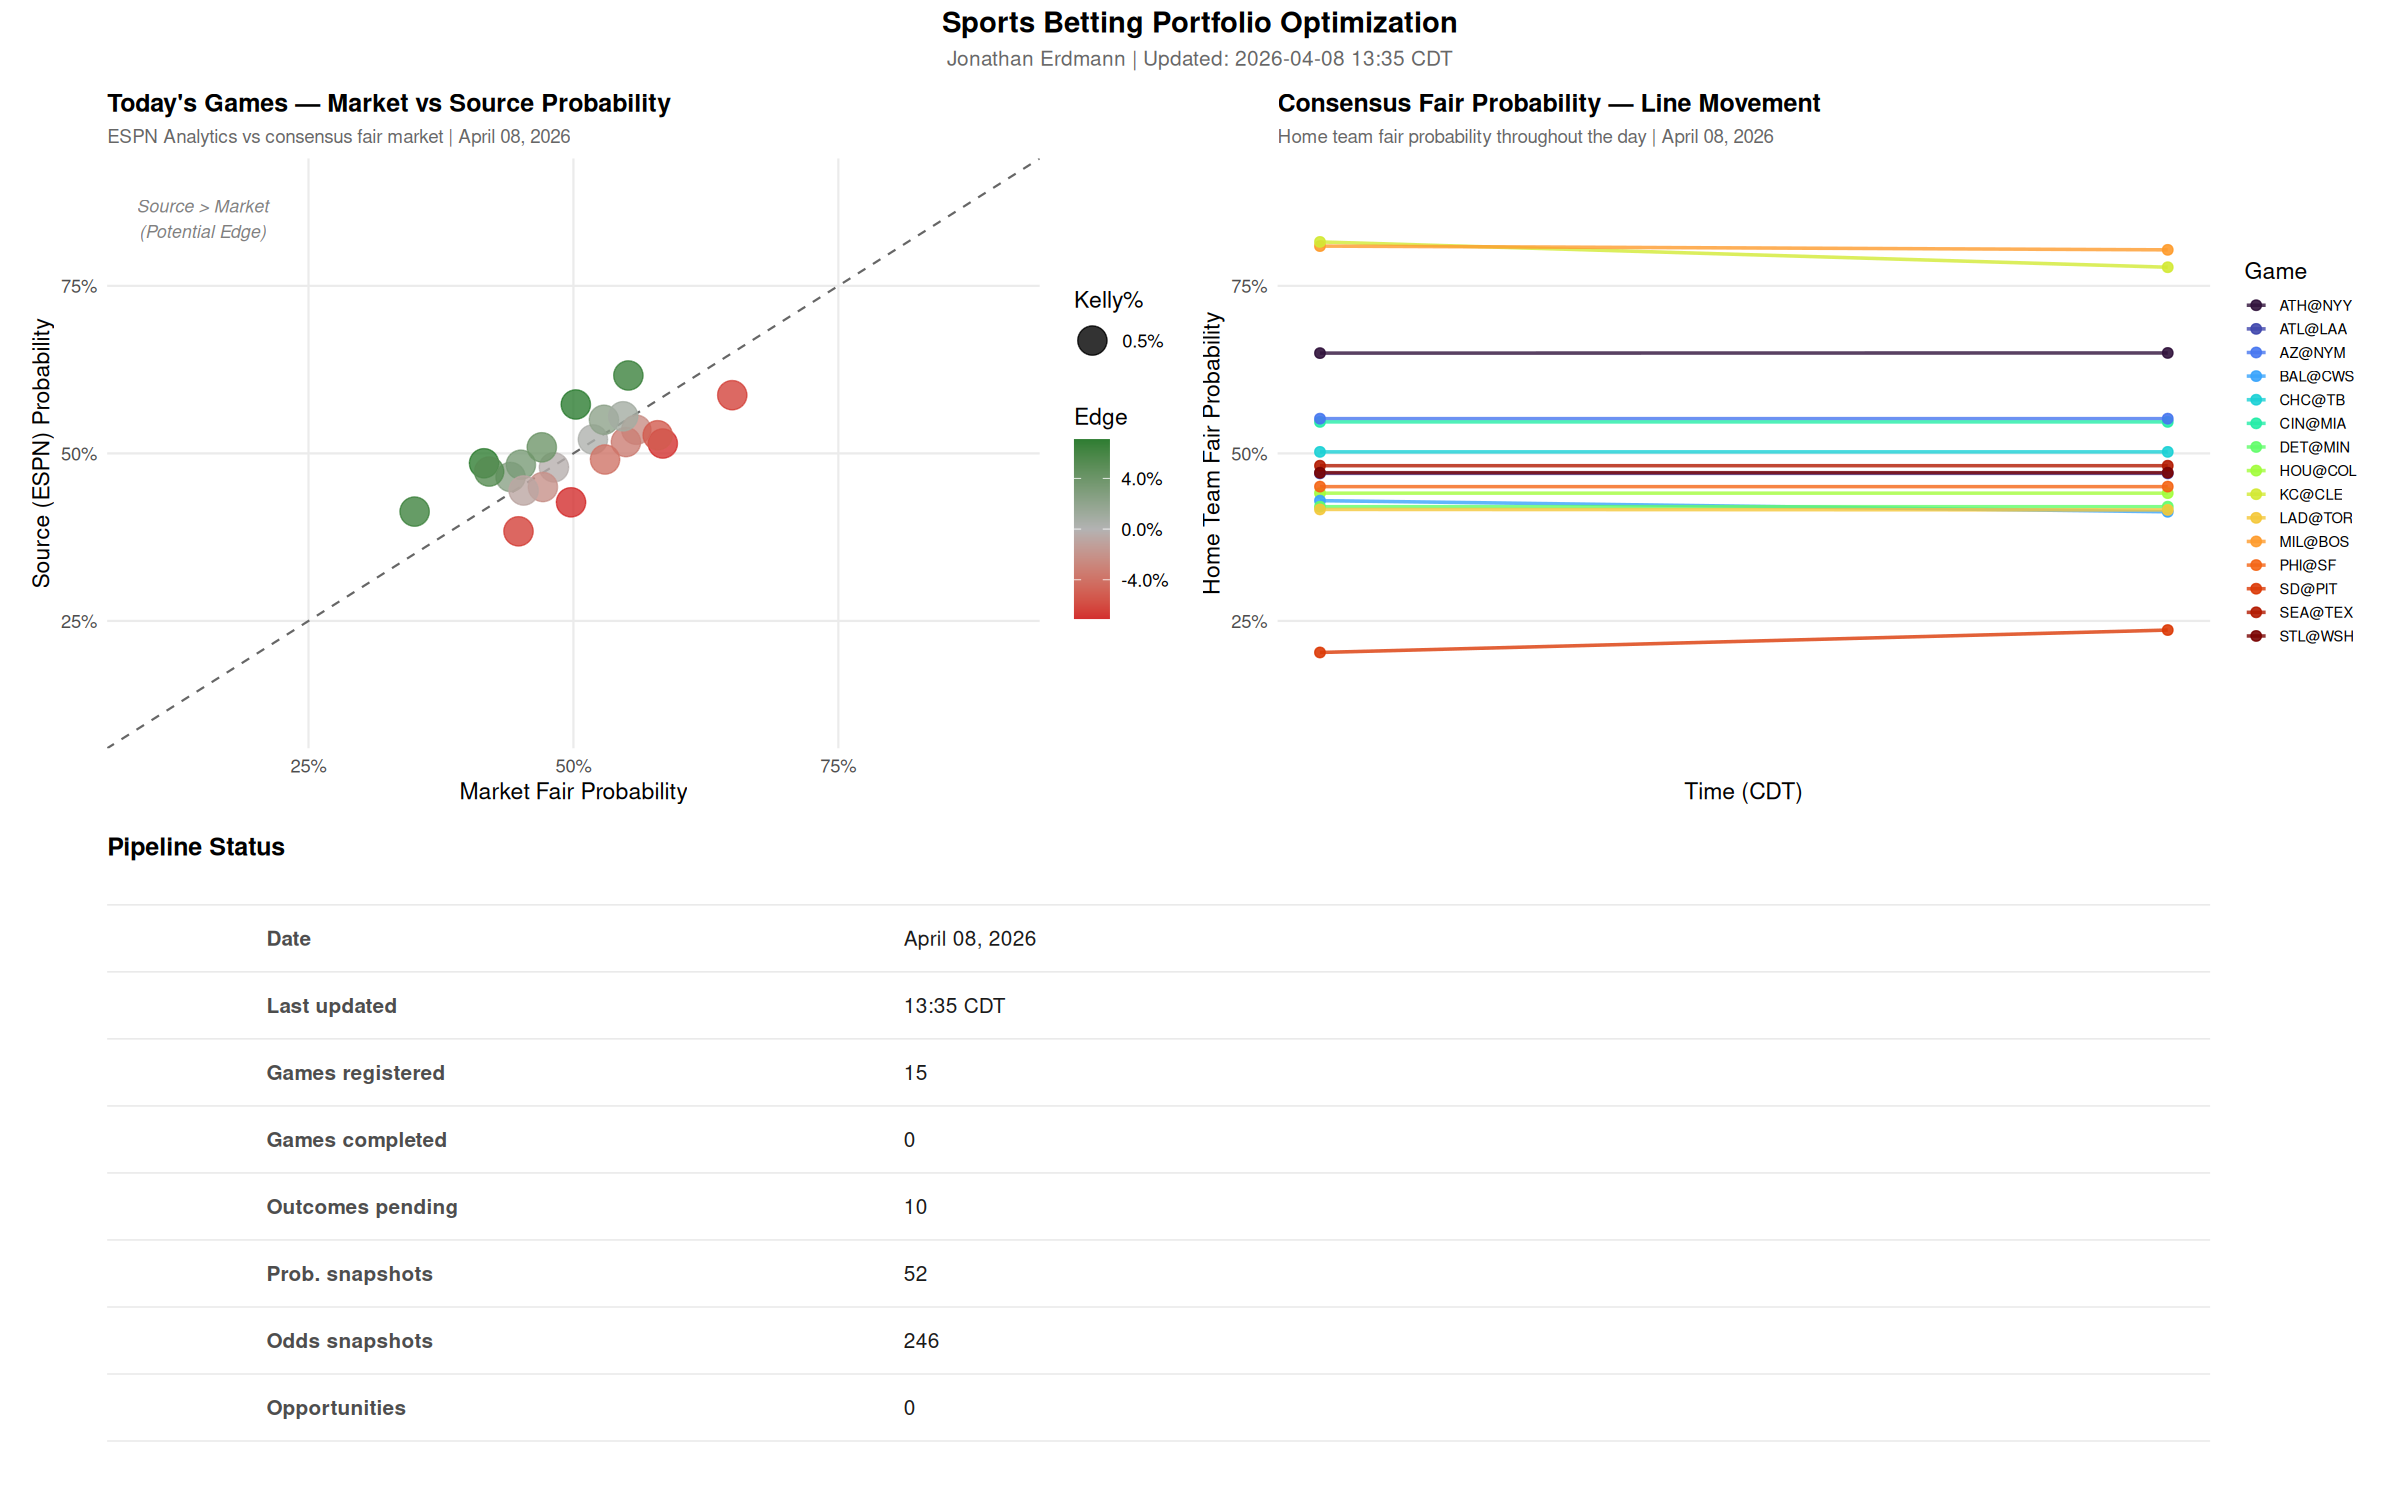
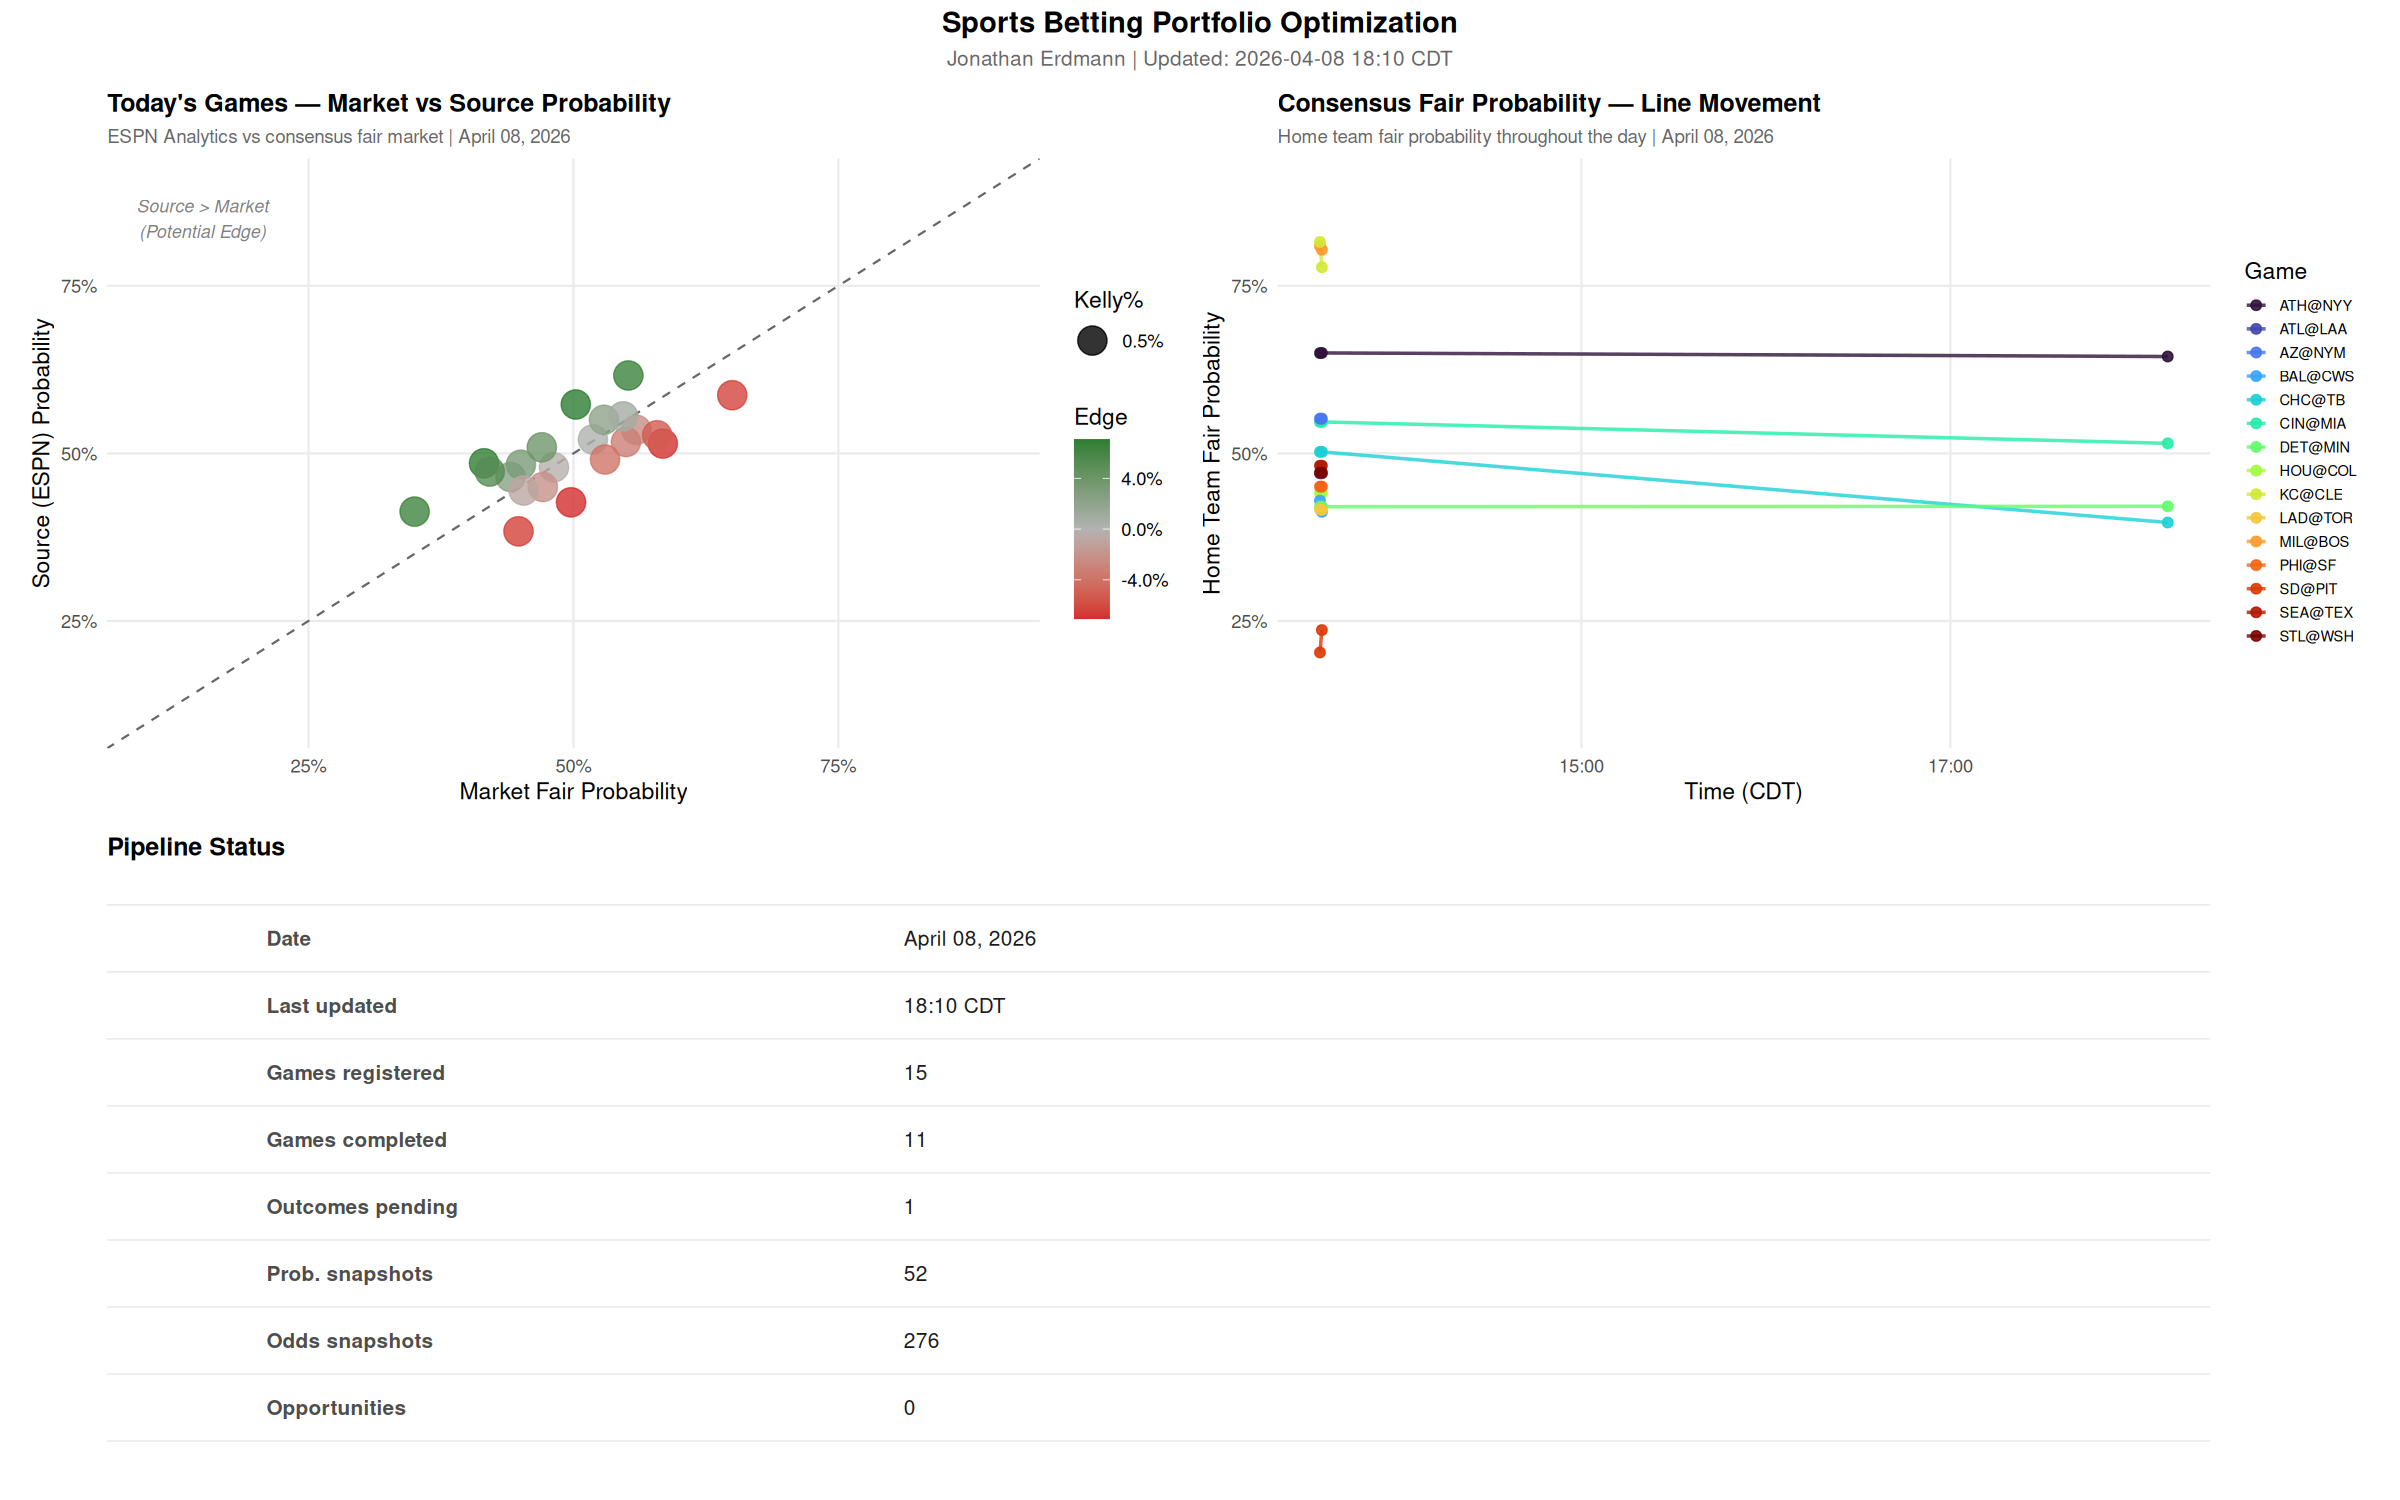
Update dashboard: 2026-04-08 18:10

diff --git a/projects/portfolio-optimization/dashboard.md b/projects/portfolio-optimization/dashboard.md
@@ -6,7 +6,7 @@ permalink: /projects/portfolio-optimization/dashboard/
 
 ## Daily Pipeline Dashboard
 
-**Last updated:** April 08, 2026 13:35 CDT
+**Last updated:** April 08, 2026 18:10 CDT
 
 ---
 
